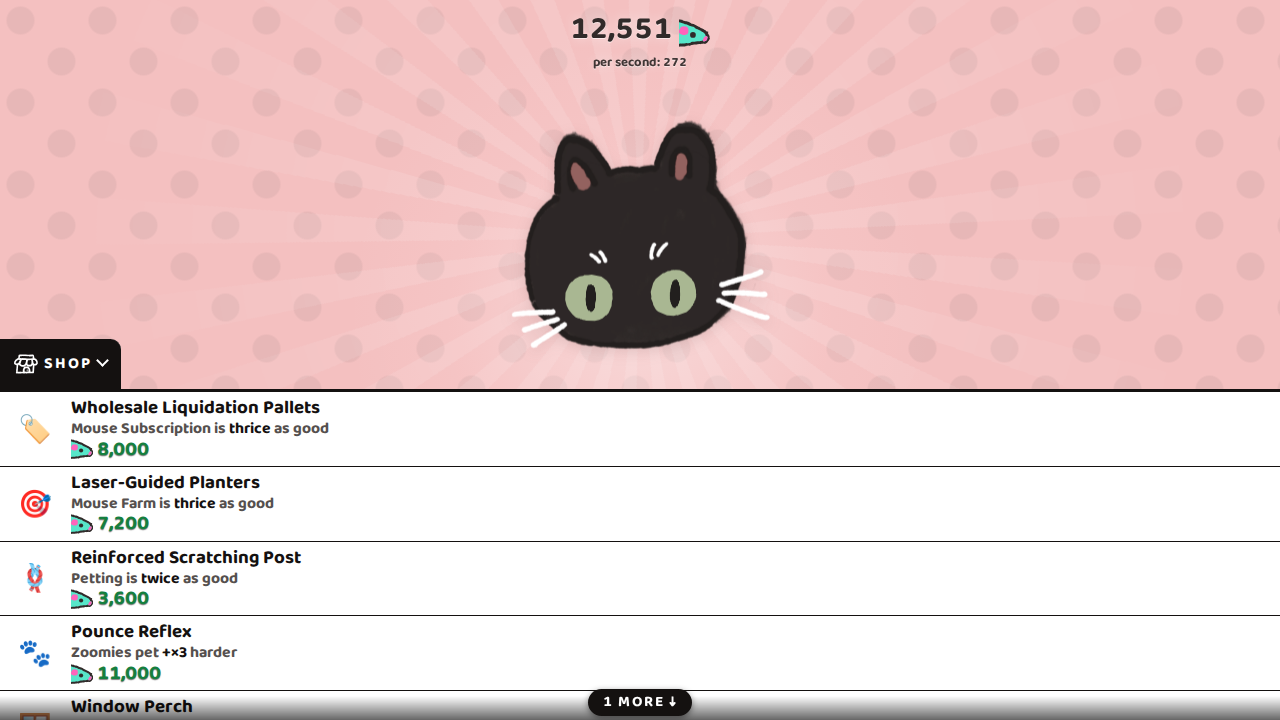
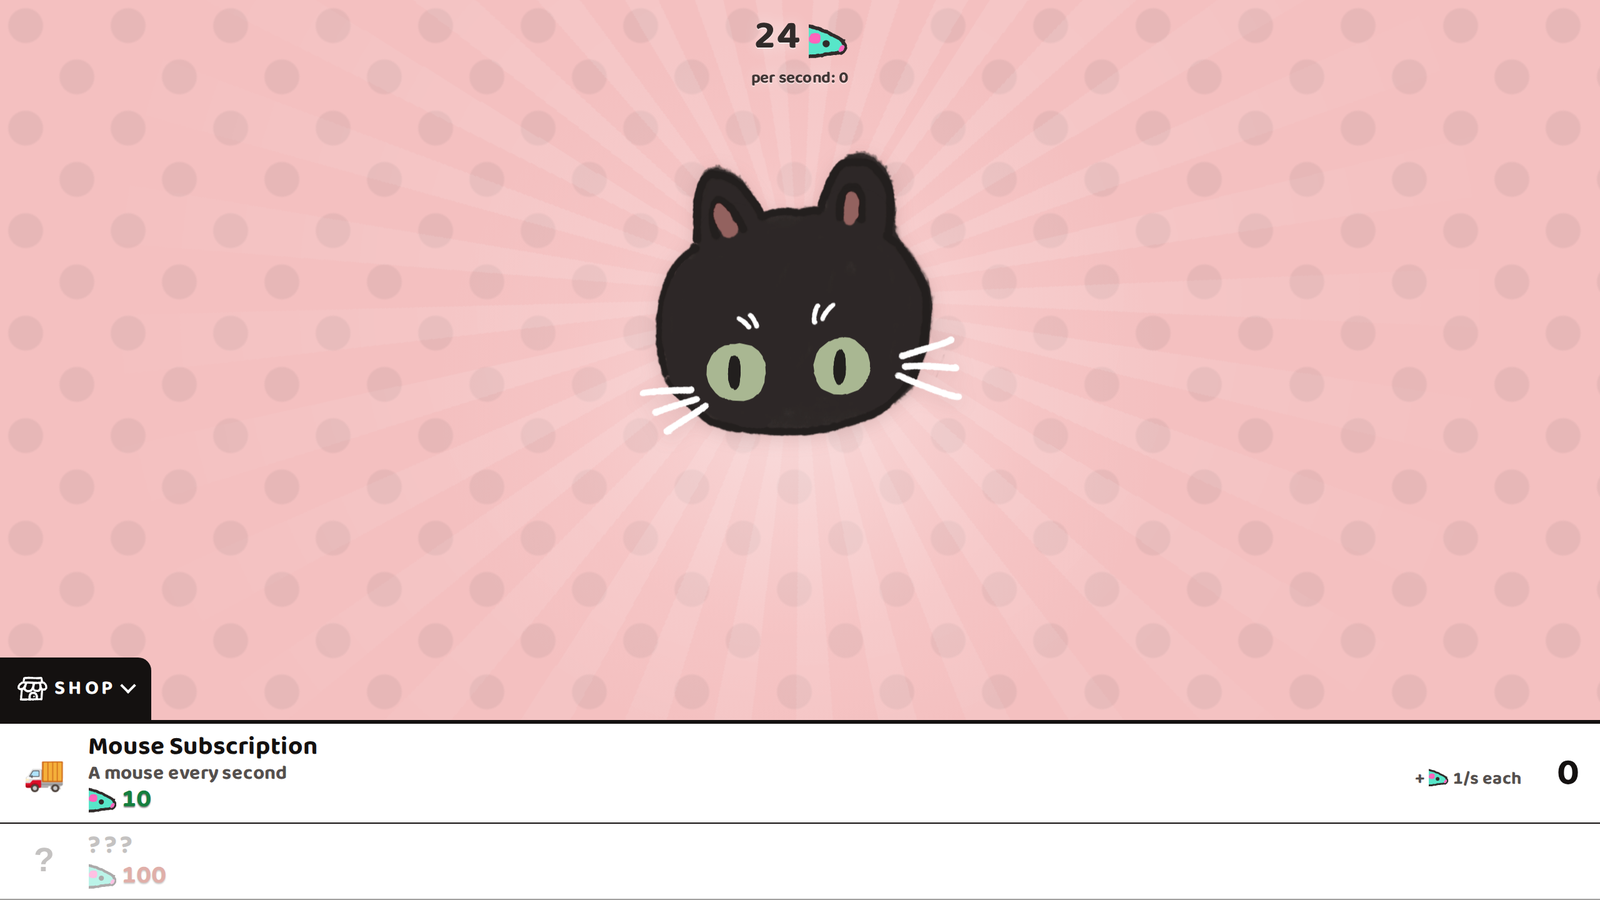
Show early-game Hex, retitle the games section, drop unused images
- Hex Clicker's screenshot is now an early-game frame: Hex at rest with
  her eyes open and only the first shop item showing.
- "Escape Cats · two browser games" becomes "Escape Cats Browser Games".
- Goomba's bio opens with "Can jump to any shelf".
- Delete the footer projects' images, which nothing references any more.

Claude-Session: https://claude.ai/code/session_0173MA8rjUg1oQb1o1LRkDSu

diff --git a/app/page.tsx b/app/page.tsx
@@ -166,7 +166,7 @@ export default function Home() {
 
       <section>
         <h2 className="font-extrabold text-sm tracking-[5px] uppercase mb-4">
-          Escape Cats · two browser games
+          Escape Cats Browser Games
         </h2>
         <div className="grid grid-cols-1 md:grid-cols-2 gap-4">
           <GameCard
@@ -175,8 +175,8 @@ export default function Home() {
             image={{
               src: "/hex-clicker.png",
               alt: "Hex the black cat over a pink polka-dot sky, with the upgrade shop open below",
-              width: 1280,
-              height: 720,
+              width: 1600,
+              height: 900,
             }}
             url="https://hexxygon.com/"
             domain="hexxygon.com"
@@ -215,7 +215,7 @@ export default function Home() {
               name: "Goomba",
               photo: "/goomba.jpg",
               photoAlt: "Goomba, a brown tabby cat, looking up at the camera",
-              bio: "Brown tabby. An agile cat who can jump to any shelf, and has a penchant for eating houseplants. Exhibits human emotions like longing and jealousy.",
+              bio: "Brown tabby. Can jump to any shelf, and has a penchant for eating houseplants. Exhibits human emotions like longing and jealousy.",
               traits: [
                 { label: "Cuddly", score: 5 },
                 { label: "Agility", score: 5 },
